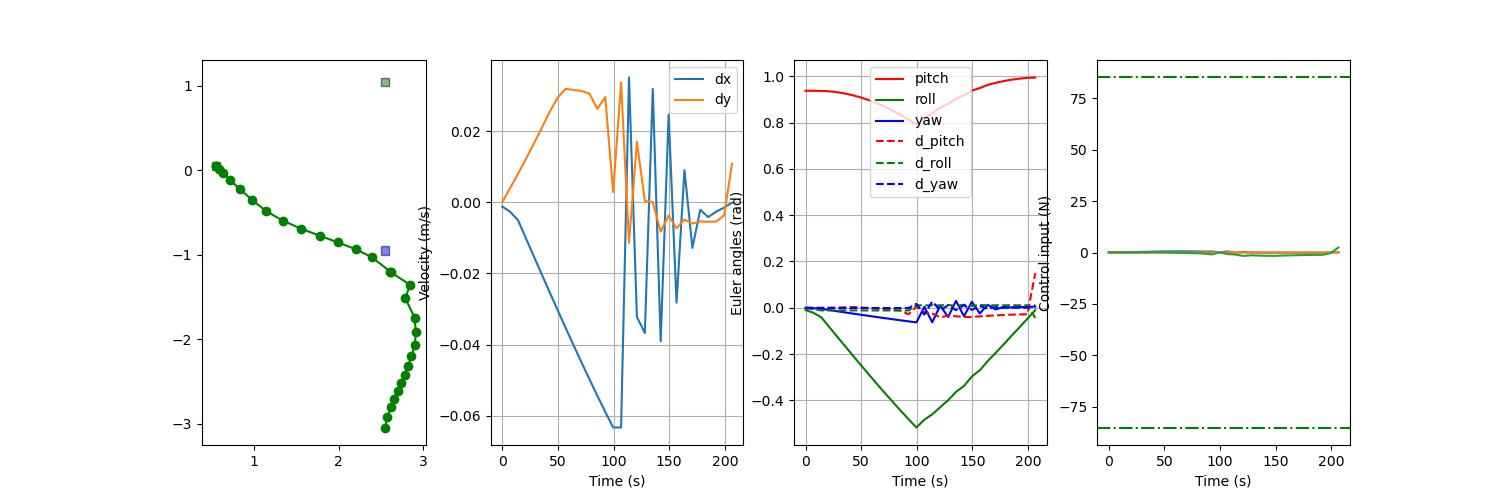
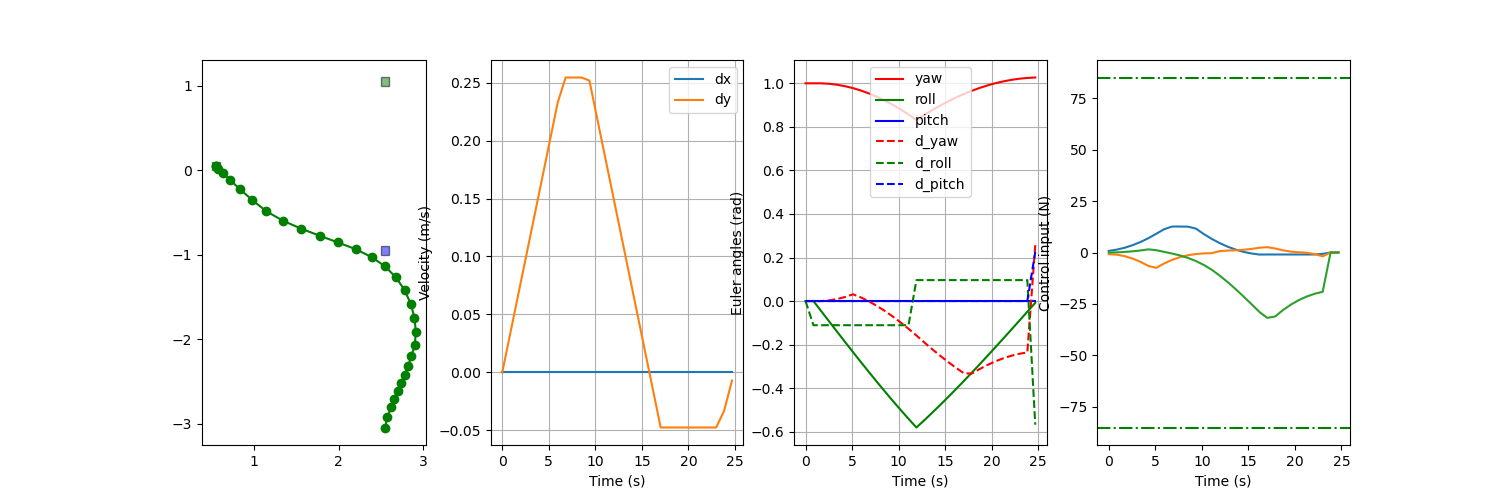
weight tuning on EKF, small fixes

diff --git a/stl_mapping/Control/mpc_node.py b/stl_mapping/Control/mpc_node.py
@@ -19,6 +19,7 @@ from px4_msgs.msg import VehicleThrustSetpoint, VehicleTorqueSetpoint, OffboardC
 from Control.controllers.mpc_wrench import MpcWrench
 from Control.estimators.ekf_wrench_estimator import EKFWrenchEstimator
 from Utilities.rotations import quat_to_euler_np, q_to_rot_mat_np
+from Utilities.rotations import enu_to_ned, ned_to_enu
 
 class MPCNode(Node):
     def __init__(self):
@@ -55,6 +56,11 @@ class MPCNode(Node):
             '/stl_mapping/start', 
             self.start_callback, 
             RELIABLE_QOS)
+        self.actuator_motors_sub = self.create_subscription(
+            ActuatorMotors,
+            'fmu/out/actuator_motors',
+            self.actuator_motors_callback,
+            NORMAL_QOS)
         
         self.get_logger().info("MPC subscribers initialized successfully")
 
@@ -86,6 +92,10 @@ class MPCNode(Node):
         self.reference_path_pub = self.create_publisher(
             Path,
             "stl_mapping/reference_path",
+            10)
+        self.reference_point_pub = self.create_publisher(
+            PoseStamped,
+            "stl_mapping/reference_point",
             10)
         self.entire_path_pub = self.create_publisher(
             Path,
@@ -175,12 +185,12 @@ class MPCNode(Node):
         self.nav_state = msg.nav_state
 
     def actuator_motors_callback(self, msg: ActuatorMotors):
-        B_F = 1.5 * np.array([
+        B_F = 1.6 * np.array([
             [1., -1., 1., -1., 0., 0., 0., 0.],
             [0., 0., 0., 0., -1., 1., -1., 1.],
             [0., 0., 0., 0., 0., 0., 0., 0.]
             ])
-        B_T = 1.5 * 0.12 * np.array([
+        B_T = 1.6 * 0.12 * np.array([
             [0., 0., 0., 0., 0., 0., 0., 0.],
             [0., 0., 0., 0., 0., 0., 0., 0.],
             [-1., 1., 1., -1., -1., 1., 1., -1.]
@@ -360,10 +370,10 @@ class MPCNode(Node):
         self.control, x_pred = self.mpc.get_input(x0, x_ref, fd=self.fd_est, td=self.td_est)
         # print(f"Control: {self.control.flatten()}")
 
-        quat_error = (x_pred[0, 6:10] @ x_ref[6:10, 0])**2
-        self.get_logger().warning(f"quat_error: {1-quat_error}")
-        pos_error = np.linalg.norm(x_pred[0, 0:2] - x_ref[0:2, 0])
-        self.get_logger().warning(f"pos_error: {pos_error}")
+        # quat_error = (x_pred[0, 6:10] @ x_ref[6:10, 0])**2
+        # self.get_logger().warning(f"quat_error: {1-quat_error}")
+        # pos_error = np.linalg.norm(x_pred[0, 0:2] - x_ref[0:2, 0])
+        # self.get_logger().warning(f"pos_error: {pos_error}")
 
         # Publish the reference and predicted path for rviz
         setpoint_path_msg = Path()
@@ -373,6 +383,11 @@ class MPCNode(Node):
             setpoint_path_msg.header = setpoint_pose_msg.header
             setpoint_path_msg.poses.append(setpoint_pose_msg)
         self.reference_path_pub.publish(setpoint_path_msg)
+
+
+        self.reference_point_pub.publish(
+            self.vector2PoseMsg('map', x_ref[0:3, 0], x_ref[6:10, 0])
+        )
 
         x_pred = x_pred.T
         predicted_path_msg = Path()

diff --git a/stl_mapping/Planning/main.py b/stl_mapping/Planning/main.py
@@ -1,5 +1,6 @@
 import numpy as np
 import matplotlib.pyplot as plt
+from scipy.spatial.transform import Rotation as R
 import copy
 
 # reach-avoid gurobi optimization problem
@@ -16,6 +17,7 @@ from Utilities.Robots import FreeFlyer, LinearFreeFlyer6DoF
 from Utilities.sets import HyperRectangle, Polytope
 from Utilities.rotations import quat_to_euler_np, quat_to_euler_cs, euler_to_quat_np, euler_to_quat_cs
 from Utilities.rotations import quat_x_to_euler_x_cs, euler_x_to_quat_x_cs, quat_x_to_euler_x_np, euler_x_to_quat_x_np
+from Utilities.rotations import enu_to_ned, ned_to_enu, u_enu_to_ned
 from Utilities.stl import Pred, Spec, quant_parse_operator, OptProbItems
 from Utilities.plotting import plot_planning_results
 from Utilities.smarc_modelling.src.smarc_modelling.vehicles.BlueROV import BlueROV 
@@ -68,7 +70,7 @@ spec = Spec(phi, t0, tf)
 
 
 # create planner
-if True:
+if False:
     opt = gp.Model("prob1")
     x_vars = opt.addMVar((N, sp_robot.n_x), lb=-np.inf, ub=np.inf, name="X")
     u_vars = opt.addMVar((N, sp_robot.n_u), lb=-np.inf, ub=np.inf, name="U")
@@ -149,6 +151,13 @@ uw_robot = BlueROV() # (quaternion=True)
 sp_robot_nl = FreeFlyer()
 
 def u_fbl(x, v):
+    # convert p and q from ENU to NED
+    x_ned = enu_to_ned(x[:3], x[3:7])
+    # convert dq and dp from FRD body frame to NED inertial frame
+    dp_ned = R.from_quat(x[3:7],scalar_first=True).apply(x[7:10])
+    # convert control input v from ENU to NED
+    v_ned = u_enu_to_ned(v)
+
     fx_uw = uw_robot.fx(x)
     gx_uw = uw_robot.gx(x)
     u_fbl = np.linalg.pinv(gx_uw)@(sp_robot_nl.fx(x) + sp_robot_nl.gx(x)@v - fx_uw)
@@ -228,10 +237,10 @@ if True:
     for i in range(N):
         # ocp.subject_to(u_fbl_cs(x_vars[:,i],u_vars[:,i])[0:2] >= alpha*(uw_robot.U.lower_bounds[0:2]))
         # ocp.subject_to(u_fbl_cs(x_vars[:,i],u_vars[:,i])[0:2] <= alpha*(uw_robot.U.upper_bounds[0:2]))
-        # ocp.subject_to(u_vars[:,i] >= alpha * uw_robot.U.lower_bounds)
-        # ocp.subject_to(u_vars[:,i] <= alpha * uw_robot.U.upper_bounds)
-        ocp.subject_to(u_vars[:,i] >= alpha * u_fbl_cs(x_vars[:,i],uw_robot.U.lower_bounds))
-        ocp.subject_to(u_vars[:,i] <= alpha * u_fbl_cs(x_vars[:,i],uw_robot.U.upper_bounds))
+        ocp.subject_to(u_vars[:,i] >= alpha * uw_robot.U.lower_bounds)
+        ocp.subject_to(u_vars[:,i] <= alpha * uw_robot.U.upper_bounds)
+        # ocp.subject_to(u_vars[:,i] >= alpha * u_fbl_cs(x_vars[:,i],uw_robot.U.lower_bounds))
+        # ocp.subject_to(u_vars[:,i] <= alpha * u_fbl_cs(x_vars[:,i],uw_robot.U.upper_bounds))
 
     # constraints
     for i in range(N-1):
@@ -240,6 +249,7 @@ if True:
     # enforce position equality with the free flyer
     n_equal = 7 # first n_equal states 
     for i in range(N):
+        # ocp.subject_to(x_vars[0:n_equal,i] == x_uw_fbl_sp[i,0:n_equal])
         ocp.subject_to(x_vars[0:n_equal,i] <= x_uw_fbl_sp[i,0:n_equal] + delta* np.ones(n_equal))
         ocp.subject_to(x_vars[0:n_equal,i] >= x_uw_fbl_sp[i,0:n_equal] - delta* np.ones(n_equal))
 

diff --git a/stl_mapping/Utilities/rotations.py b/stl_mapping/Utilities/rotations.py
@@ -37,8 +37,7 @@ def q_to_rot_mat_np(q):
     return rot_mat
 
 def v_dot_q(v, q):
-    rot_mat = q_to_rot_mat(q)
-
+    rot_mat = q_to_rot_mat_cs(q)
     return cs.mtimes(rot_mat, v)
 
 def euler_to_quat_cs(pry,order='zyz'):
@@ -134,3 +133,61 @@ def euler_x_to_quat_x_np(x,order='zyx'):
         dq                   # angular velocity
     ))
     return quat_x
+
+def ned_to_enu(pos_ned, quat_ned):
+    """
+    Convert position and quaternion from NED to ENU frame.
+    
+    Parameters:
+        pos_ned (np.ndarray): Position in NED frame.
+        quat_ned (np.ndarray): Quaternion in NED frame.
+    
+    Returns:
+        tuple: Position and quaternion in ENU frame.
+    """
+    T = np.array([
+        [0, 1, 0],
+        [1, 0, 0],
+        [0, 0, -1]
+    ])
+    pos_enu = T @ pos_ned
+    r_ned = R.from_quat(quat_ned)
+    r_enu = T @ r_ned.as_matrix() @ T.T
+    quat_enu = R.from_matrix(r_enu).as_quat()
+    return pos_enu, quat_enu
+
+def enu_to_ned(pos_enu, quat_enu):
+    """
+    Convert position and quaternion from ENU to NED frame.
+    
+    Parameters:
+        pos_enu (np.ndarray): Position in ENU frame.
+        quat_enu (np.ndarray): Quaternion in ENU frame.
+    
+    Returns:
+        tuple: Position and quaternion in NED frame.
+    """
+    T = np.array([
+        [0, 1, 0],
+        [1, 0, 0],
+        [0, 0, -1]
+    ])
+    pos_ned = T @ pos_enu
+    r_enu = R.from_quat(quat_enu)
+    r_ned = T @ r_enu.as_matrix() @ T.T
+    quat_ned = R.from_matrix(r_ned).as_quat()
+    return pos_ned, quat_ned
+
+def u_enu_to_ned(u):
+    """
+    Convert control inputs from ENU to NED frame.
+    
+    Parameters:
+        u (np.ndarray): Control inputs in ENU frame.
+    
+    Returns:
+        np.ndarray: Control inputs in NED frame.
+    """
+    T = np.diag([1, -1, -1, 1, -1, -1])
+    u_ned = T @ u
+    return u_ned

diff --git a/stl_mapping/Utilities/plotting.py b/stl_mapping/Utilities/plotting.py
@@ -20,12 +20,12 @@ def plot_planning_results(robot, t, x, u, X0, Xf, ROIs, Obs, alpha=1.0,
     axs[1].legend()
     axs[1].grid()
 
-    axs[2].plot(t, x[:, 3], 'r', label='pitch')
+    axs[2].plot(t, x[:, 3], 'r', label='yaw')
     axs[2].plot(t, x[:, 4], 'g', label='roll')
-    axs[2].plot(t, x[:, 5], 'b', label='yaw')
-    axs[2].plot(t, x[:, 9], 'r--', label='d_pitch')
+    axs[2].plot(t, x[:, 5], 'b', label='pitch')
+    axs[2].plot(t, x[:, 9], 'r--', label='d_yaw')
     axs[2].plot(t, x[:, 10], 'g--', label='d_roll')
-    axs[2].plot(t, x[:, 11], 'b--', label='d_yaw')
+    axs[2].plot(t, x[:, 11], 'b--', label='d_pitch')
     axs[2].set_xlabel('Time (s)')
     axs[2].set_ylabel('Euler angles (rad)')
     axs[2].legend()

diff --git a/stl_mapping/Control/estimators/ekf_wrench_estimator.py b/stl_mapping/Control/estimators/ekf_wrench_estimator.py
@@ -9,8 +9,10 @@ class EKFWrenchEstimator:
         # State: [fd, td] in R^6
         self.x = np.zeros(6)
         self.P = np.eye(6) # initial uncertainty
-        self.Q = np.diag([0.05**2]*3 + [0.001**2]*3) # process noise covariance
-        self.R = np.diag([0.001]*3 + [0.001]*3)
+        # self.Q = 0.1 * np.diag([0.05**2]*3 + [0.001**2]*3) # process noise covariance
+        # self.R = 10 * np.diag([0.001]*3 + [0.001]*3)
+        self.Q = np.diag([0.001]*6)
+        self.R = np.diag([0.01]*6)
 
         self.v_prev = None
         self.w_prev = None

diff --git a/stl_mapping/Control/controllers/mpc_wrench.py b/stl_mapping/Control/controllers/mpc_wrench.py
@@ -52,10 +52,10 @@ class MpcWrench():
             2e0, 2e0, 1e0, 
             1e2, 
             5e0, 5e0, 5e0])             
-        self.R = np.diag([          # State weighting matrix
+        self.R = 0.1*np.diag([          # State weighting matrix
             1e0, 1e0, 1e0,
             1e0, 1e0, 1e0]) 
-        self.P = 20 * self.Q        # Terminal state weighting matrix
+        self.P = 10 * self.Q        # Terminal state weighting matrix
         
         # Bounds
         self.lbx = np.array([0+0.25, -1.58+0.25, -0.5, -0.5, -3])
